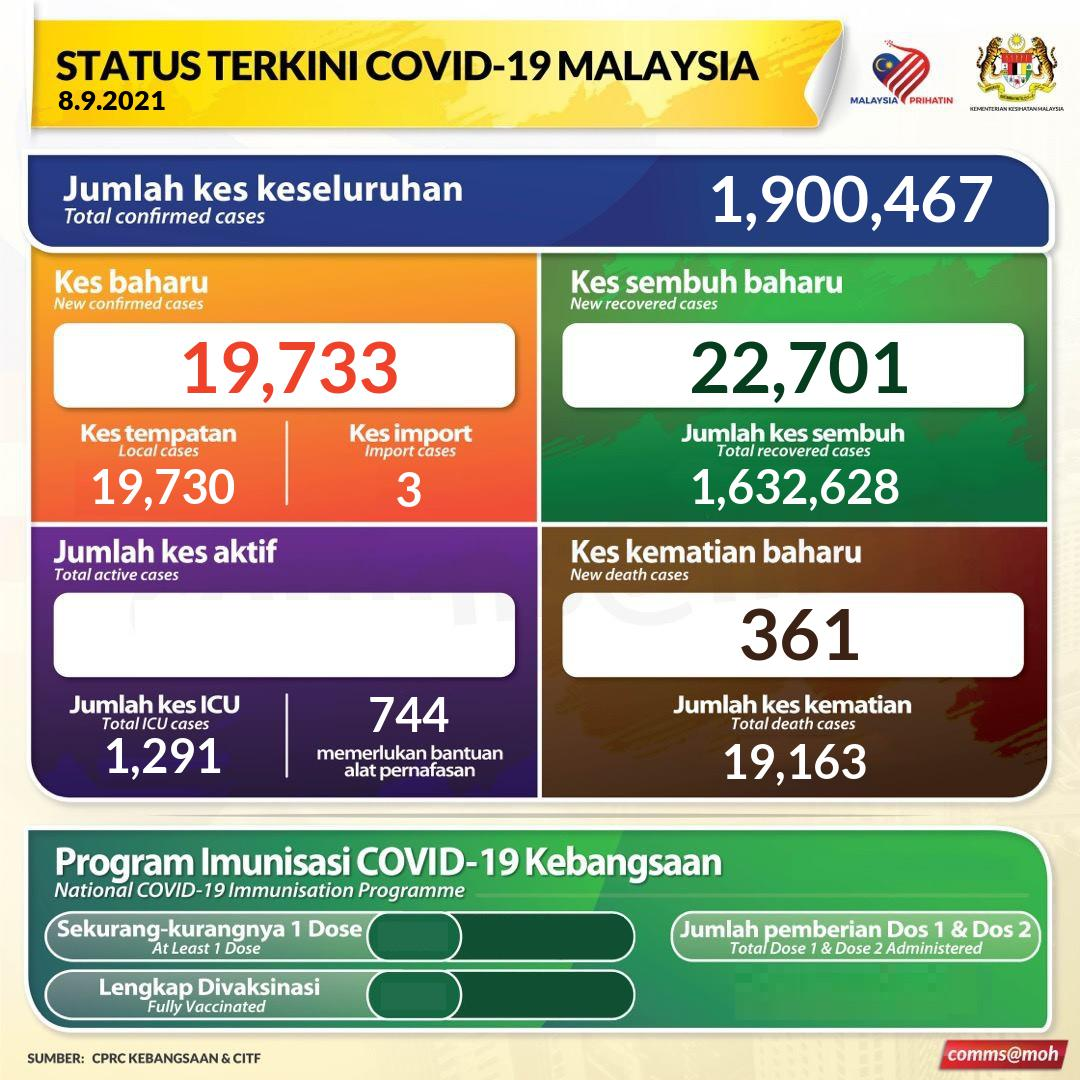
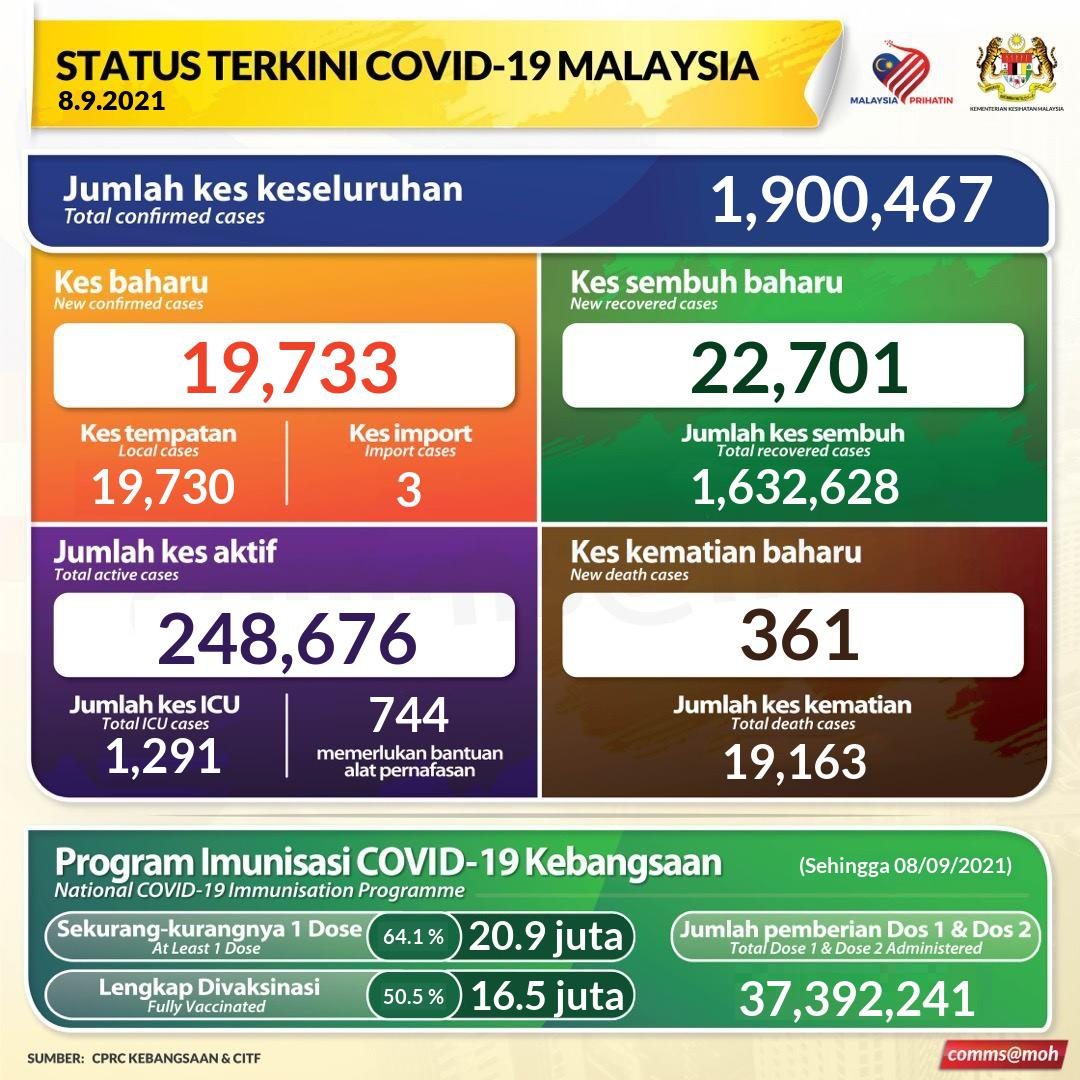
latest_summary completed

diff --git a/generate.php b/generate.php
@@ -36,8 +36,7 @@ function generateLatestStatus($date)
     $accumulatedCase = $accumulatedRecoverCase = 0;
     $newCase = $newRecoverCase = 0;
     foreach ($csvCasesMalaysia as $row) {
-        if(str_replace('-', '', $row['date']) <= str_replace('-', '', $date))
-        {
+        if (str_replace('-', '', $row['date']) <= str_replace('-', '', $date)) {
             $accumulatedCase += $row['cases_new'];
             $accumulatedRecoverCase += $row['cases_recovered'];
         }
@@ -53,8 +52,7 @@ function generateLatestStatus($date)
     $csvDeathsMalaysia = loadCsvDeathsMalaysia();
     $accumulatedDeathCase = $newDeathCase = 0;
     foreach ($csvDeathsMalaysia as $row) {
-        if(str_replace('-', '', $row['date']) <= str_replace('-', '', $date))
-        {
+        if (str_replace('-', '', $row['date']) <= str_replace('-', '', $date)) {
             $accumulatedDeathCase += $row['deaths_new'];
         }
         
@@ -66,8 +64,7 @@ function generateLatestStatus($date)
     $csvIcu = loadCsvIcu();
     $icuCase = 0;
     $ventCase = 0;
-    foreach($csvIcu as $row)
-    {
+    foreach ($csvIcu as $row) {
         if ($row['date'] == $date) {
             $icuCase += $row['icu_covid'] + $row['icu_pui'];
             $ventCase += $row['vent_covid'] + $row['vent_pui'];
@@ -76,8 +73,7 @@ function generateLatestStatus($date)
 
     $csvPkrc = loadCsvPkrc();
     $pkrcCase = 0;
-    foreach($csvPkrc as $row)
-    {
+    foreach ($csvPkrc as $row) {
         if ($row['date'] == $date) {
             $pkrcCase += $row['pkrc_covid'] + $row['pkrc_pui'];
         }
@@ -85,16 +81,36 @@ function generateLatestStatus($date)
 
     $csvHospital = loadCsvHospital();
     $hospitalCase = 0;
-    foreach($csvHospital as $row)
-    {
+    foreach ($csvHospital as $row) {
         if ($row['date'] == $date) {
             $hospitalCase += $row['hosp_covid'] + $row['hosp_pui'];
         }
     }
-    // todo: stuck here, cant find the home quarantine data
-    $activeCase = $hospitalCase + $pkrcCase + $icuCase;
-    //$activeCase = 248673;
 
+    $csvPopulation = loadCsvPopulation();
+    $malaysiaPopulation = 0;
+    foreach ($csvPopulation as $row) {
+        if ($row['state'] == 'Malaysia') {
+            $malaysiaPopulationArray = $row;
+        }
+    }
+
+    // calc activeCase
+    $activeCase = $accumulatedCase - $accumulatedRecoverCase - $accumulatedDeathCase;
+    
+    // vaccination
+    $dateVax = sprintf('%s/%s/%s', $dateDay, $dateMonth, $dateYear);
+    $csvVax = loadCsvVaccination();
+    $accumulatedVax = $accumulatedPartialVax = $accumulatedFullVax = 0;
+    foreach ($csvVax as $row) {
+        if ($row['date'] <= $date) {
+            $accumulatedVax = $row['cumul'];
+            list($dateYearVax, $dateMonthVax, $dateDayVax) = explode('-', $row['date']);
+            $dateVax = sprintf('%s/%s/%s', $dateDayVax, $dateMonthVax, $dateYearVax);
+            $accumulatedPartialVax = $row['cumul_partial'];
+            $accumulatedFullVax = $row['cumul_full'];
+        }
+    }
     //
     // write date
     writeLeft($im, sprintf('%s.%s.%s', ltrim($dateDay, '0'), ltrim($dateMonth, '0'), $dateYear), 20, 58, 110, $colorBlack, $fontLatoBlack);
@@ -119,10 +135,9 @@ function generateLatestStatus($date)
     // write accumulated recover case
     writeCenter($im, number_format($accumulatedRecoverCase), 35, 565, 465, 455, 50, $colorWhite, $fontLatoBold);
 
-
     //
-    // todo: write active case
-    // writeCenter($im, number_format($activeCase), 53, 55, 599, 460, 90, imagecolorallocate($im, 51, 27, 89), $fontLatoBold);
+    // write active case
+    writeCenter($im, number_format($activeCase), 53, 55, 599, 460, 90, imagecolorallocate($im, 51, 27, 89), $fontLatoBold);
 
     // write icu case
     writeCenter($im, number_format($icuCase), 35, 73, 734, 175, 50, $colorWhite, $fontLatoBold);
@@ -134,6 +149,21 @@ function generateLatestStatus($date)
     writeCenter($im, number_format($newDeathCase), 53, 567, 590, 460, 90, imagecolorallocate($im, 60, 34, 20), $fontLatoBold);
     // write accumulated death case
     writeCenter($im, number_format($accumulatedDeathCase), 35, 565, 740, 455, 50, $colorWhite, $fontLatoBold);
+
+    // vaccination
+    writeCenter($im, sprintf('(Sehingga %s)', $dateVax), 16, 800, 855, 210, 24, $colorWhite, $fontLatoBold);
+    writeCenter($im, number_format($accumulatedVax), 35, 672, 982, 368, 40, $colorWhite, $fontLatoBold);
+
+    // write partial vax percentage
+    writeCenter($im, sprintf('%.1f %%', ($accumulatedPartialVax/$malaysiaPopulationArray['pop'] * 100)), 15, 382, 915, 63, 43, $colorWhite, $fontLatoBold);
+    // write partial vax number
+    writeCenter($im, sprintf('%s juta', number_format($accumulatedPartialVax/1000000, 1, '.', '')), 30, 465, 918, 160, 43, $colorWhite, $fontLatoBold);
+    ;
+    // write full vax percentage
+    writeCenter($im, sprintf('%.1f %%', ($accumulatedFullVax/$malaysiaPopulationArray['pop'] * 100)), 15, 382, 975, 63, 43, $colorWhite, $fontLatoBold);
+    ;
+    // write full vax number
+    writeCenter($im, sprintf('%s juta', number_format($accumulatedFullVax/1000000, 1, '.', '')), 30, 465, 978, 160, 43, $colorWhite, $fontLatoBold);
 
     // Output the image
     header('Content-Type: image/jpeg');
@@ -210,6 +240,31 @@ function loadCsvPkrc()
 function loadCsvHospital()
 {
     $file = sprintf('%s/input/moh/epidemic/hospital.csv', getcwd());
+    $rows   = array_map('str_getcsv', file($file));
+    $header = array_shift($rows);
+    $csv    = array();
+    foreach ($rows as $row) {
+        $csv[] = array_combine($header, $row);
+    }
+
+    return $csv;
+}
+
+function loadCsvVaccination()
+{
+    $file = sprintf('%s/input/citf/vaccination/vax_malaysia.csv', getcwd());
+    $rows   = array_map('str_getcsv', file($file));
+    $header = array_shift($rows);
+    $csv    = array();
+    foreach ($rows as $row) {
+        $csv[] = array_combine($header, $row);
+    }
+
+    return $csv;
+}
+function loadCsvPopulation()
+{
+    $file = sprintf('%s/input/moh/static/population.csv', getcwd());
     $rows   = array_map('str_getcsv', file($file));
     $header = array_shift($rows);
     $csv    = array();
